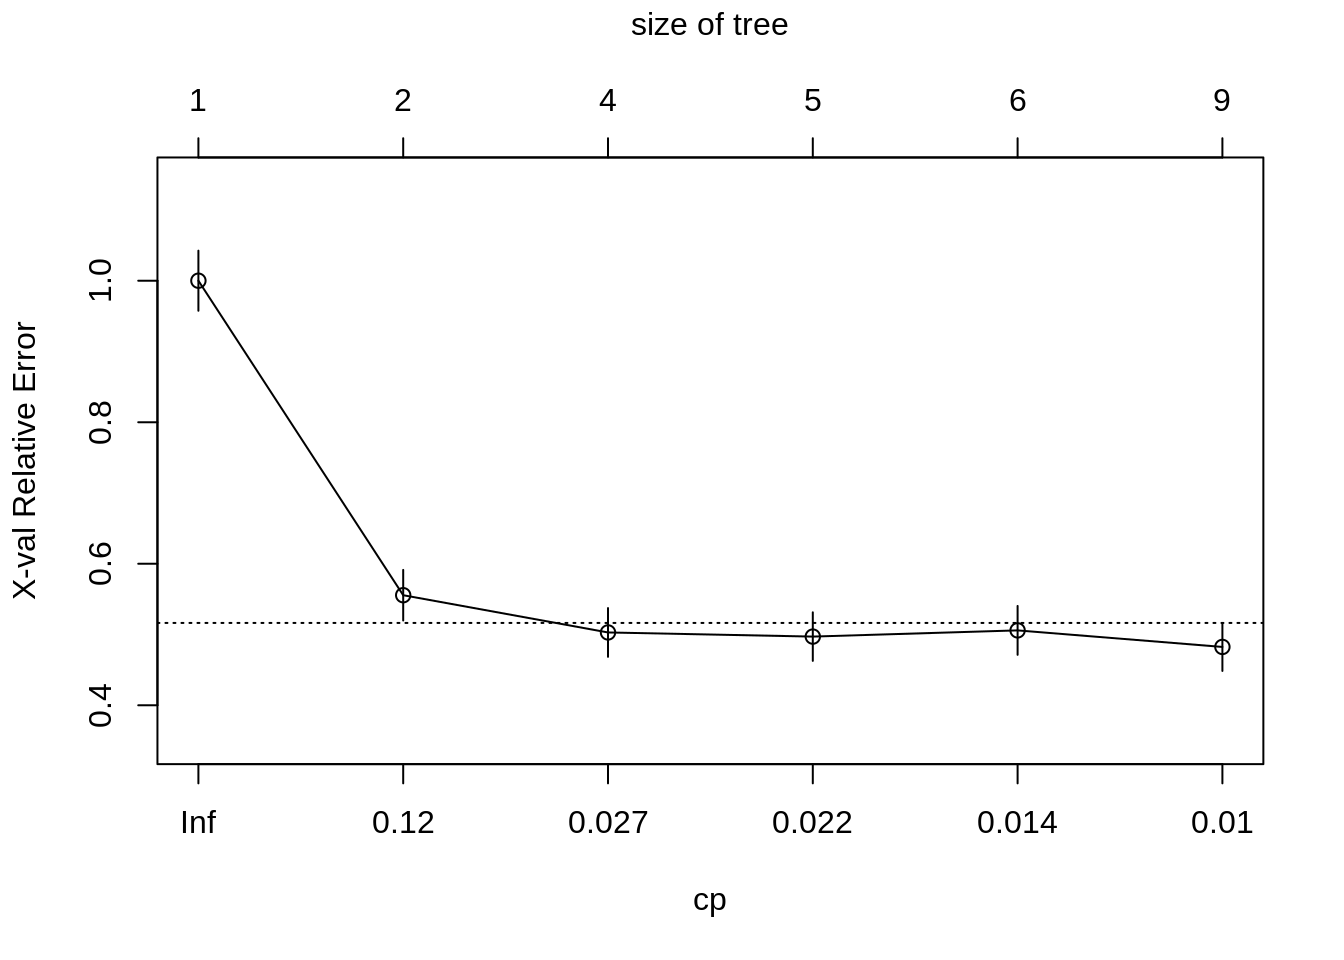
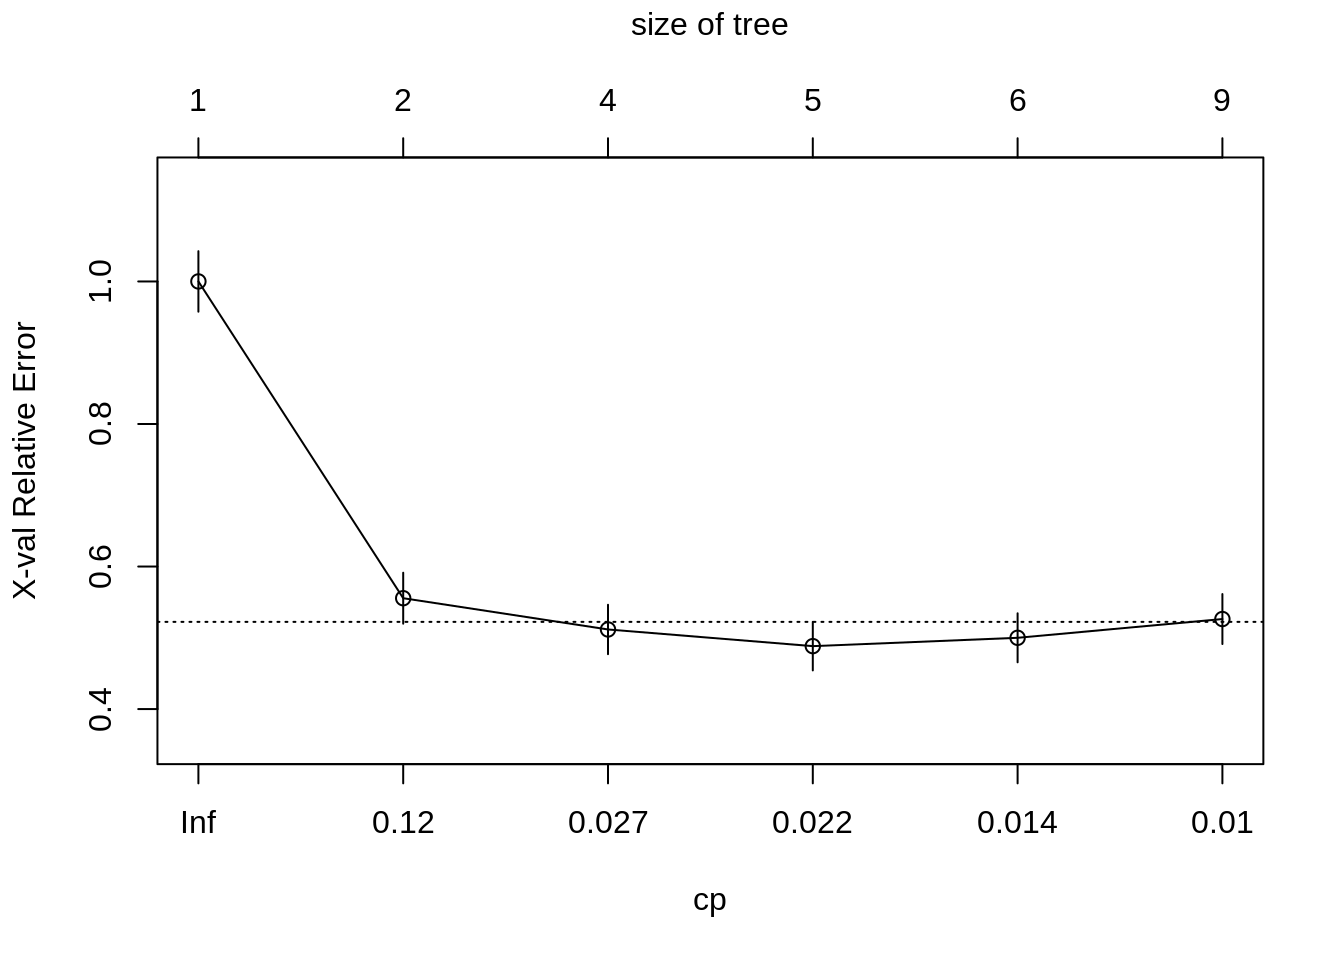
Deploy lebebr01/stat_thinking to github.com/lebebr01/stat_thinking.git:master

diff --git a/docs/classification.html b/docs/classification.html
@@ -324,10 +324,10 @@ titanic &lt;-<span class="st"> </span><span class="kw">bind_rows</span>(titanic_
 ##         CP nsplit rel error  xerror     xstd
 ## 1 0.444444      0   1.00000 1.00000 0.042446
 ## 2 0.030702      1   0.55556 0.55556 0.035750
-## 3 0.023392      3   0.49415 0.50292 0.034448
-## 4 0.020468      4   0.47076 0.49708 0.034295
-## 5 0.010234      5   0.45029 0.50585 0.034524
-## 6 0.010000      8   0.41813 0.48246 0.033904</code></pre>
+## 3 0.023392      3   0.49415 0.51170 0.034675
+## 4 0.020468      4   0.47076 0.48830 0.034061
+## 5 0.010234      5   0.45029 0.50000 0.034372
+## 6 0.010000      8   0.41813 0.52632 0.035043</code></pre>
 <div class="sourceCode"><pre class="sourceCode r"><code class="sourceCode r"><span class="kw">plotcp</span>(class_tree)</code></pre></div>
 <p><img src="05-classification_files/figure-html/unnamed-chunk-6-1.png" width="672" /></p>
 <div class="sourceCode"><pre class="sourceCode r"><code class="sourceCode r">prune_class_tree &lt;-<span class="st"> </span><span class="kw">prune</span>(class_tree, <span class="dt">cp =</span> .<span class="dv">02</span>)

diff --git a/docs/05-classification.md b/docs/05-classification.md
@@ -249,10 +249,10 @@ printcp(class_tree)
 ##         CP nsplit rel error  xerror     xstd
 ## 1 0.444444      0   1.00000 1.00000 0.042446
 ## 2 0.030702      1   0.55556 0.55556 0.035750
-## 3 0.023392      3   0.49415 0.50292 0.034448
-## 4 0.020468      4   0.47076 0.49708 0.034295
-## 5 0.010234      5   0.45029 0.50585 0.034524
-## 6 0.010000      8   0.41813 0.48246 0.033904
+## 3 0.023392      3   0.49415 0.51170 0.034675
+## 4 0.020468      4   0.47076 0.48830 0.034061
+## 5 0.010234      5   0.45029 0.50000 0.034372
+## 6 0.010000      8   0.41813 0.52632 0.035043
 ```
 
 ```r
